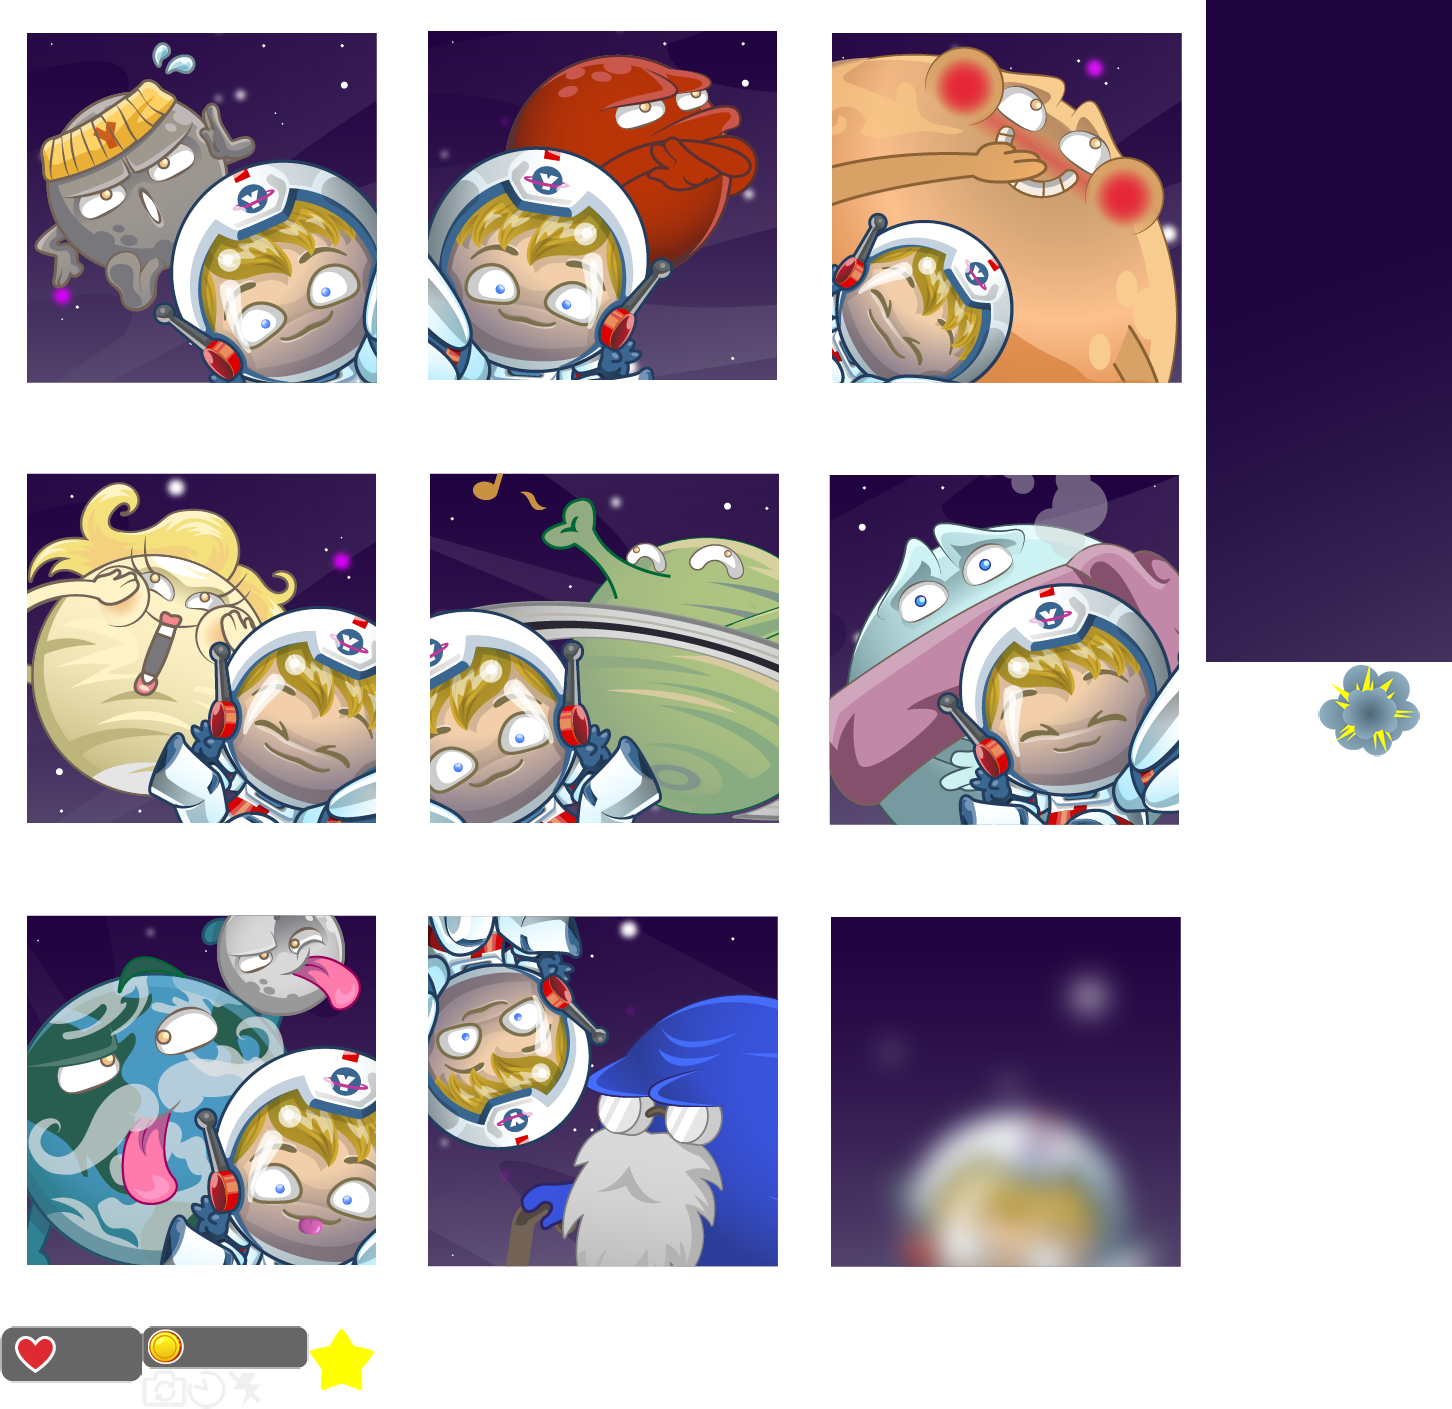
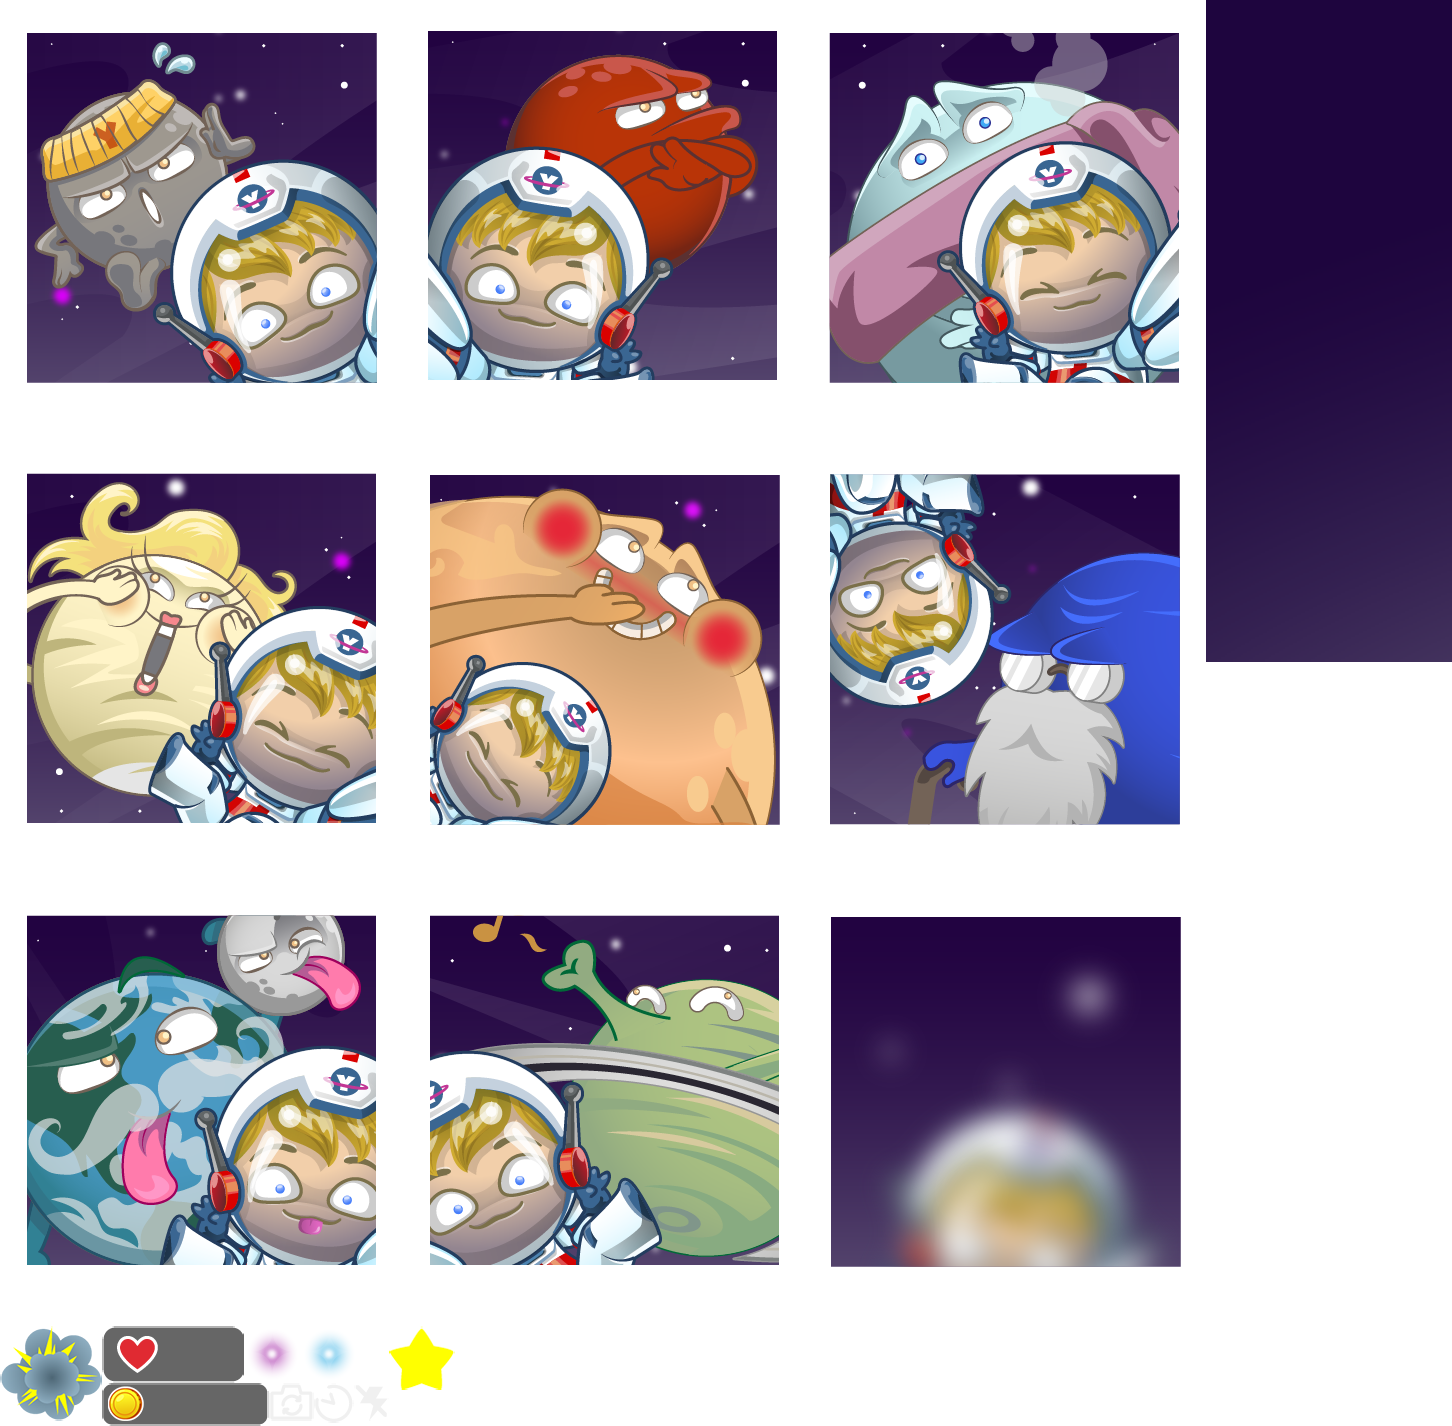
selfie planet, cambios de arte de estrellas y mostrar tutorial siempre

diff --git a/newStructure/minigames/selfiePlanet/js/scenes/selfiePlanet.js b/newStructure/minigames/selfiePlanet/js/scenes/selfiePlanet.js
@@ -124,6 +124,7 @@ var selfiePlanet = function(){
     var gameSong
     var coin
     var handGroup
+    var sparkGroup
     var planetsGroup
     var planetText
     var eagle
@@ -296,7 +297,8 @@ var selfiePlanet = function(){
     function onClickPlay() {
         
         tutoGroup.y = -game.world.height
-        if(playTuto){
+        initTuto()
+        /*if(playTuto){
             initTuto()
         }
         else{
@@ -307,7 +309,7 @@ var selfiePlanet = function(){
                 playTuto = false
                 initGame()
             })
-        }
+        }*/
     }
     
     function releaseButton(obj){
@@ -325,6 +327,35 @@ var selfiePlanet = function(){
         stars.anchor.setTo(0.5)
         sceneGroup.add(stars)
         sceneGroup.stars = stars
+        
+        sparkGroup = game.add.group()
+        sparkGroup.createMultiple(5, "atlas.selfiePlanet", "spark0")
+        sparkGroup.createMultiple(5, "atlas.selfiePlanet", "spark1")
+        sparkGroup.setAll('anchor.x', 0.5)
+        sparkGroup.setAll('anchor.y', 0.5)
+        sparkGroup.setAll('alpha', 0)
+        sparkGroup.setAll('exists', false)
+        sparkGroup.setAll('visible', false)
+        sceneGroup.add(sparkGroup)
+    
+        shotStars()
+    }
+    
+    function shotStars(){
+            
+        do {
+            var spark = sparkGroup.getRandom()
+        } while (spark.alive == true)
+        
+        if(spark){
+            spark.reset(game.world.randomX,  game.world.randomY)
+            spark.shine = game.add.tween(spark).to({alpha: 1}, 300, Phaser.Easing.linear, true, 0, 0, true)
+            spark.shine.yoyoDelay(700)
+            spark.shine.onComplete.add(function(obj){
+                obj.kill()
+            },this)
+        }
+        game.time.events.add(700, shotStars, this)
     }
 
 	function update(){
